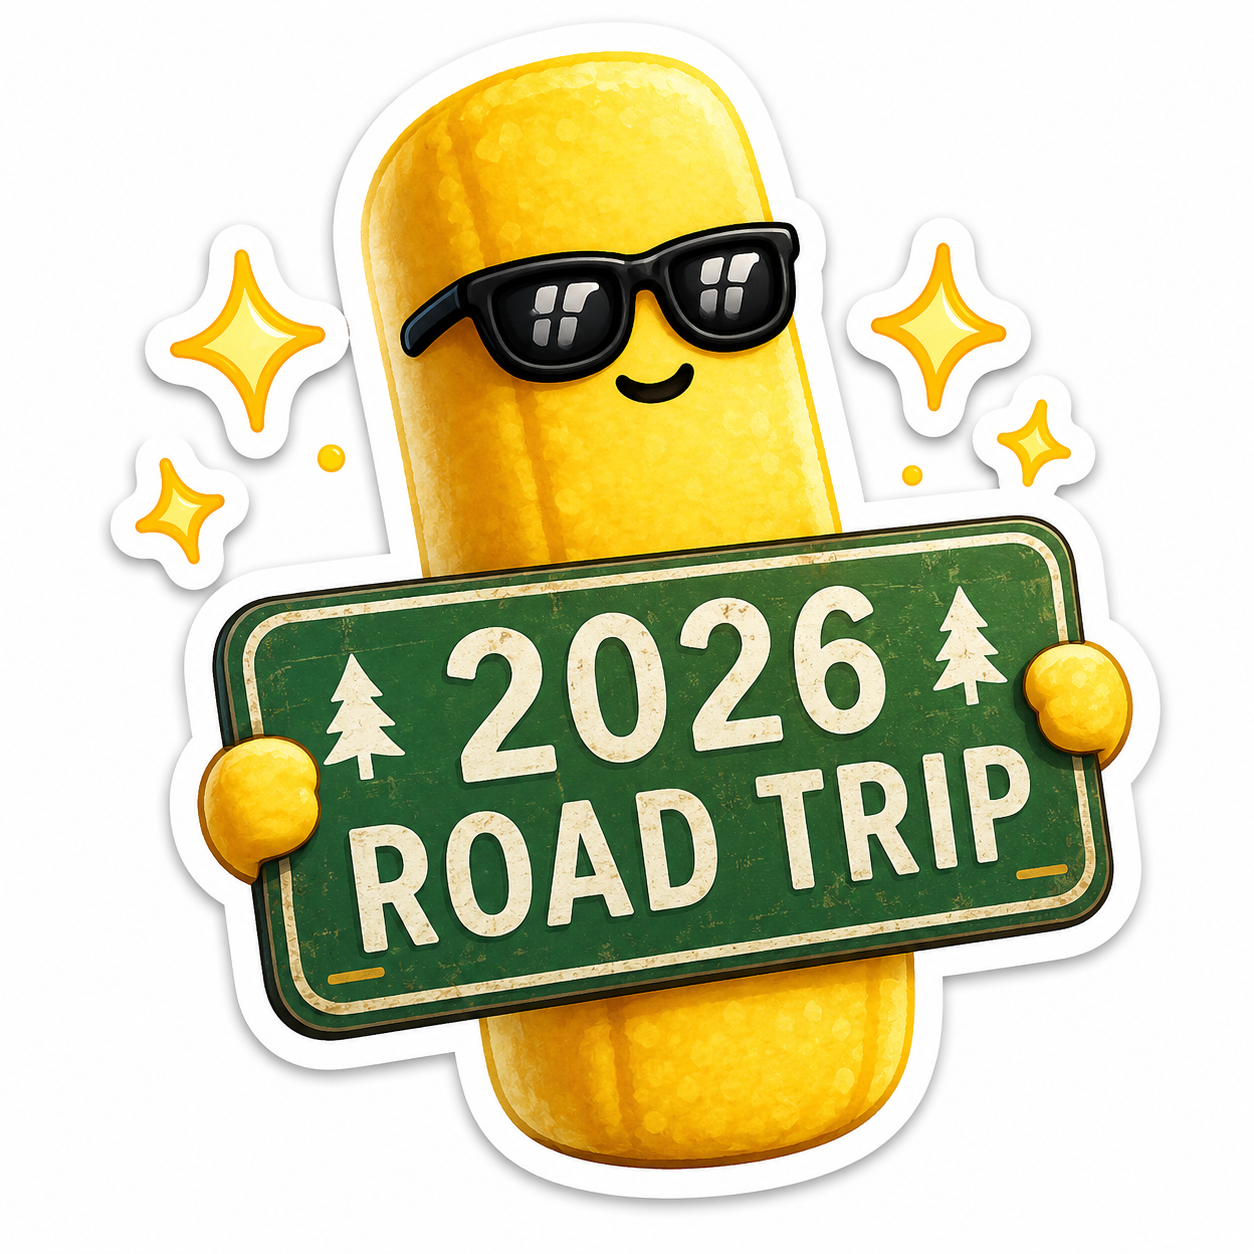
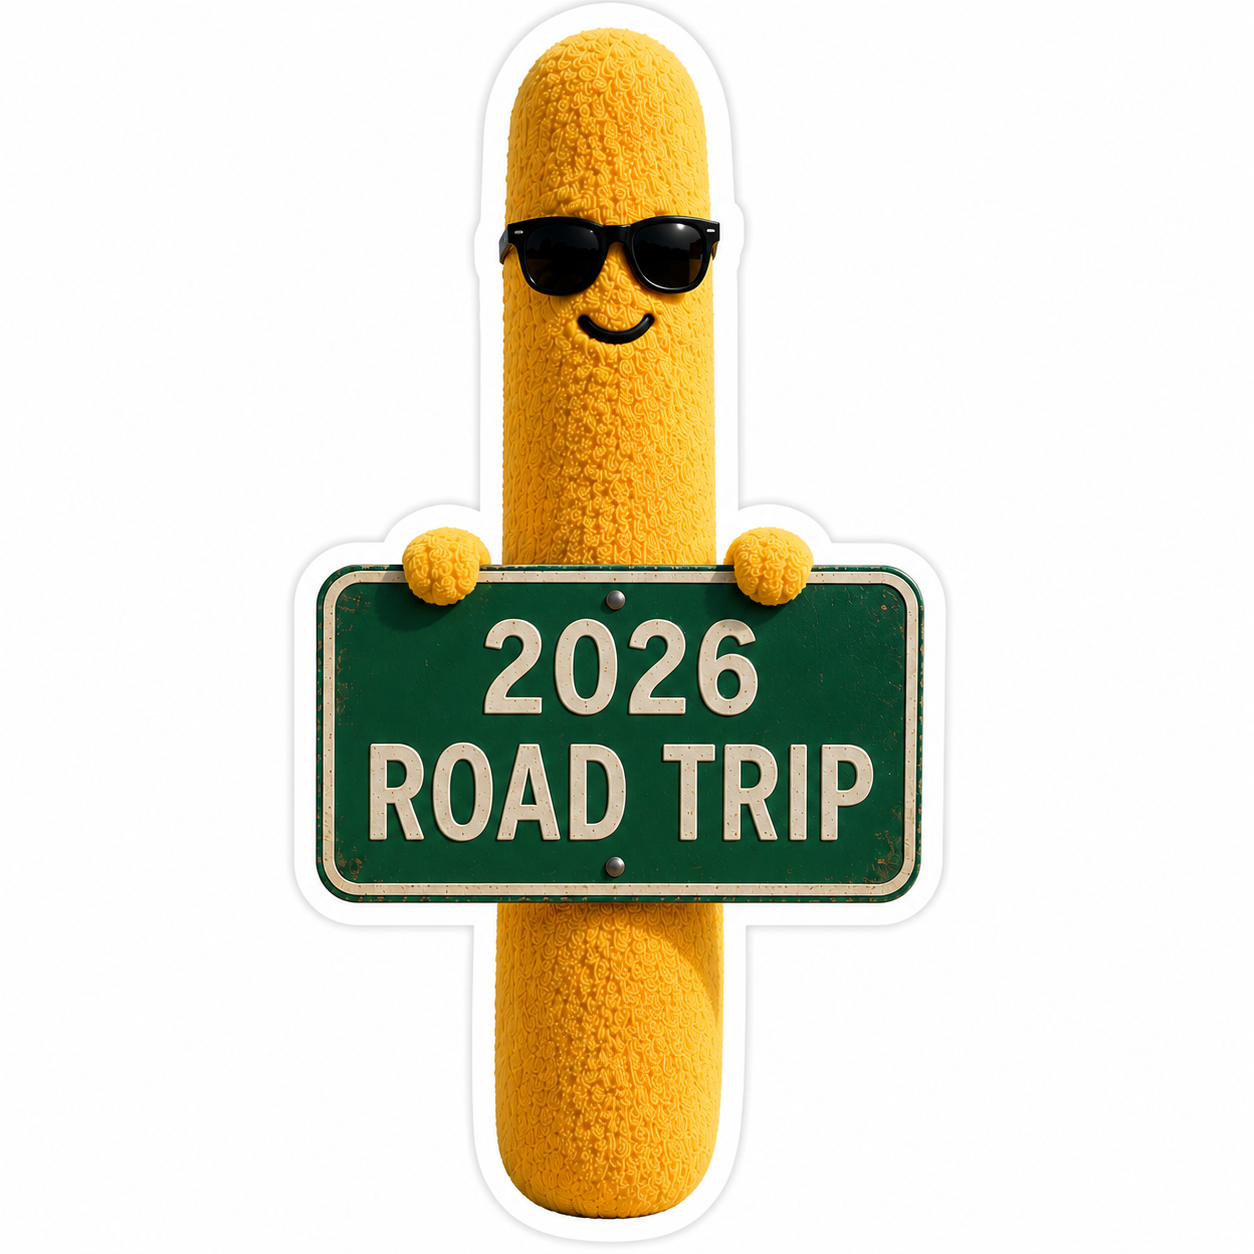
feat: refresh Leonard sticker assets
Replace the existing Road Trip and Campfire artwork with the latest finals and add the remaining completed Leonard sticker images.

Update the stickers page so the published site presents the full final set instead of only two early preview concepts.

diff --git a/preview.html b/preview.html
@@ -1,39 +1,65 @@
 ---
 layout: page
-title: Sticker Ideas
-description: Early sticker directions for Leonard the Emotional Support Fry.
+title: Sticker Set
+description: Latest finished sticker artwork for Leonard.
 nav: preview
 permalink: /preview/
-hero_title: Sticker Ideas
-hero_subtitle: A few Leonard expressions that could become an iMessage sticker pack later.
+hero_title: Sticker Set
+hero_subtitle: The latest finished Leonard artwork, ready for road trips, sailing days, naps, maps, and snack-sized encouragement.
 compact_banner: true
 banner_image: /assets/images/leonard-2026-trip.png
 ---
 <section class="content-section preview-section">
-  <div class="preview-row">
-    <div>
-      <img src="{{ '/assets/images/leonard-2026-trip.png' | relative_url }}" alt="Leonard smiling behind a 2026 road trip sign">
-    </div>
-    <div class="preview-copy">
-      <h2>Road Trip Leonard</h2>
-      <ul>
-        <li>For plans, packing lists, and "we leave in ten minutes" energy.</li>
-        <li>Works as a cheerful announcement, countdown, or vacation reply.</li>
-        <li>The sign can change later for other trips, years, or family jokes.</li>
-      </ul>
-    </div>
+  <div class="preview-intro">
+    <h2>Latest Finals</h2>
+    <p>Nine polished Leonard stickers covering travel days, cozy breaks, encouragement, and water time.</p>
   </div>
-  <div class="preview-row preview-row--reverse">
-    <div class="preview-copy">
-      <h2>Campfire Leonard</h2>
-      <ul>
-        <li>For cozy nights, marshmallow negotiations, and emotional decompression.</li>
-        <li>Good for "I'm here," "take a breath," and "snack support is available."</li>
-        <li>Could anchor a calmer set alongside more expressive Leonard poses.</li>
-      </ul>
-    </div>
-    <div>
+
+  <div class="sticker-grid" aria-label="Latest Leonard sticker artwork">
+    <article class="sticker-card">
+      <img src="{{ '/assets/images/leonard-2026-trip.png' | relative_url }}" alt="Leonard smiling behind a 2026 road trip sign">
+      <h3>Road Trip</h3>
+      <p>For packing lists, departure energy, and vacation countdowns.</p>
+    </article>
+    <article class="sticker-card">
       <img src="{{ '/assets/images/leonard-campfire.png' | relative_url }}" alt="Leonard roasting a marshmallow at a campfire">
-    </div>
+      <h3>Campfire</h3>
+      <p>For cozy nights, marshmallow negotiations, and decompression.</p>
+    </article>
+    <article class="sticker-card">
+      <img src="{{ '/assets/images/leonard-thumbs-up.png' | relative_url }}" alt="Leonard giving a thumbs up">
+      <h3>Thumbs Up</h3>
+      <p>For approvals, tiny wins, and friendly encouragement.</p>
+    </article>
+    <article class="sticker-card">
+      <img src="{{ '/assets/images/leonard-sleeping.png' | relative_url }}" alt="Leonard sleeping peacefully">
+      <h3>Sleeping</h3>
+      <p>For rest mode, late nights, and quiet resets.</p>
+    </article>
+    <article class="sticker-card">
+      <img src="{{ '/assets/images/leonard-adventure-time.png' | relative_url }}" alt="Leonard ready for adventure">
+      <h3>Adventure Time</h3>
+      <p>For plans, trailheads, and heading out the door.</p>
+    </article>
+    <article class="sticker-card">
+      <img src="{{ '/assets/images/leonard-map.png' | relative_url }}" alt="Leonard reading a map">
+      <h3>Map Leonard</h3>
+      <p>For route checks, detours, and finding the next stop.</p>
+    </article>
+    <article class="sticker-card">
+      <img src="{{ '/assets/images/leonard-sailing-sunfish.png' | relative_url }}" alt="Leonard sailing a Sunfish sailboat">
+      <h3>Sailing Sunfish</h3>
+      <p>For lake days, wind checks, and small-boat confidence.</p>
+    </article>
+    <article class="sticker-card">
+      <img src="{{ '/assets/images/leonard-sailing-selfie.png' | relative_url }}" alt="Leonard taking a sailing selfie">
+      <h3>Sailing Selfie</h3>
+      <p>For proof of adventure and checking in from the water.</p>
+    </article>
+    <article class="sticker-card">
+      <img src="{{ '/assets/images/leonard-arizona.png' | relative_url }}" alt="Leonard visiting Arizona with desert scenery">
+      <h3>Arizona</h3>
+      <p>For desert stops, sunny updates, and southwest road-trip notes.</p>
+    </article>
   </div>
 </section>

diff --git a/assets/styles.css b/assets/styles.css
@@ -448,6 +448,16 @@ a:hover {
   padding-bottom: 88px;
 }
 
+.preview-intro {
+  max-width: 640px;
+  margin: 0 auto 36px;
+  text-align: center;
+}
+
+.preview-intro p {
+  margin: 10px 0 0;
+}
+
 .preview-row {
   display: grid;
   grid-template-columns: minmax(0, 1fr) minmax(0, 1fr);
@@ -479,6 +489,37 @@ a:hover {
 .preview-copy ul {
   margin: 0;
   padding-left: 1.2rem;
+}
+
+.sticker-grid {
+  display: grid;
+  grid-template-columns: repeat(3, minmax(0, 1fr));
+  gap: 28px;
+}
+
+.sticker-card {
+  display: grid;
+  min-width: 0;
+  align-content: start;
+  gap: 10px;
+  padding: 18px;
+  border: 1px solid var(--line);
+  border-radius: 8px;
+  background: #fff;
+}
+
+.sticker-card img {
+  width: 100%;
+  aspect-ratio: 1;
+  object-fit: contain;
+}
+
+.sticker-card h3 {
+  margin-top: 6px;
+}
+
+.sticker-card p {
+  margin: 0;
 }
 
 .contact-section {
@@ -602,6 +643,10 @@ a:hover {
   }
 
   .audience-grid {
+    grid-template-columns: 1fr;
+  }
+
+  .sticker-grid {
     grid-template-columns: 1fr;
   }
 

diff --git a/index.html b/index.html
@@ -29,9 +29,9 @@ banner_image: /assets/images/leonard-campfire.png
       <ul>
         <li>He brings quiet confidence, sunglasses, and the kind of smile that says, "we can handle this."</li>
       </ul>
-      <h3>Sticker-Ready</h3>
+      <h3>Sticker Set</h3>
       <ul>
-        <li>Some Leonard moments may become iMessage stickers later, but the character comes first.</li>
+        <li>The latest Leonard artwork includes road trips, campfires, maps, naps, sailing, and tiny wins.</li>
       </ul>
     </div>
   </div>